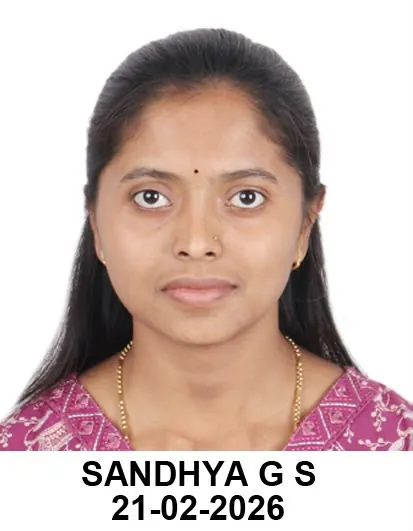
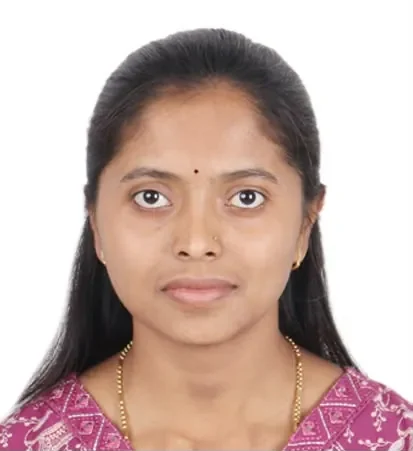
Home order: results, then a full 'Your teachers' section, then courses; merge videos/gallery/YouTube; crop stamp off a teacher photo

diff --git a/client/src/pages/Home.jsx b/client/src/pages/Home.jsx
@@ -1,6 +1,6 @@
-import React, { useState } from 'react';
+import React from 'react';
 import { Link } from 'react-router-dom';
-import { CheckCircle2, Clock, MapPin, Users, BookOpen, PenLine, Languages, CalendarClock, MessagesSquare, Download, Phone } from 'lucide-react';
+import { CheckCircle2, Clock, MapPin, Users, BookOpen, PenLine, Languages, CalendarClock, MessagesSquare, Download, Phone, ArrowRight } from 'lucide-react';
 import { PageLayout } from '../components/layout/PageLayout';
 import { SEO, faqLd } from '../components/common/SEO';
 import { sortedArticles } from '../data/articles';
@@ -8,10 +8,8 @@ import { landingByCourseId, LANDINGS } from '../data/courses';
 import { LeadForm } from '../components/common/LeadForm';
 import { openEnquiry } from '../components/common/Enquire';
 import { BrandIcon } from '../components/common/Brand';
-import { PhotoStack, HeroCtaM, PHOTOS, FacultyRow, GalleryStrip, MoreLink, ExamTiles, ResultsStrip, VideoPair, CallbackCard } from '../components/common/Visual';
+import { PhotoStack, HeroCtaM, PHOTOS, Teachers, GalleryStrip, MoreLink, ExamTiles, ResultsStrip, VideoPair, CallbackCard } from '../components/common/Visual';
 import { ACADEMY_INFO, INITIAL_COURSES, INITIAL_ACHIEVERS, getWhatsAppLink, telLink } from '../utils/constants';
-
-const YT_UPLOADS = 'UUOMaPN30n6XB7h34Kac75oA'; // uploads playlist of @Saaraswath.Mysore
 
 const FEATURES = [
   [Users, 'Personal mentorship', `Small batches and one-to-one guidance from ${ACADEMY_INFO.founder} and subject experts.`],
@@ -30,23 +28,6 @@ const FAQS = [
   ['Can I see a class before I join?', 'Ask on your call. We will tell you plainly what is possible for your batch and how classes run.'],
   ['I am still in my degree. Is it too early?', 'No. The 3-year Degree + IAS/KAS foundation runs on weekends and evenings, so it never clashes with college.'],
 ];
-
-const YouTube = () => {
-  const [on, setOn] = useState(false);
-  return (
-    <div className="yt">
-      {on ? (
-        <iframe src={`https://www.youtube-nocookie.com/embed/videoseries?list=${YT_UPLOADS}&autoplay=1`} title="Saaraswath Academy on YouTube"
-          allow="autoplay; encrypted-media; picture-in-picture" allowFullScreen />
-      ) : (
-        <button onClick={() => setOn(true)} aria-label="Play latest Saaraswath videos">
-          <span className="play"><svg width="26" height="26" viewBox="0 0 24 24" fill="#fff"><path d="M8 5v14l11-7z" /></svg></span>
-          Watch our latest classes &amp; strategy videos
-        </button>
-      )}
-    </div>
-  );
-};
 
 export const Home = () => (
   <PageLayout>
@@ -112,6 +93,19 @@ export const Home = () => (
       </div>
     </section>
 
+    {/* Your teachers, right after the students */}
+    <section className="sec sec-cream">
+      <div className="wrap">
+        <div className="sh">
+          <span className="tag">Your teachers</span>
+          <h2>The people who will teach you</h2>
+          <p>A mentor who knows you by name, and a teacher for every subject: history, polity, geography, economy, science, current affairs and aptitude.</p>
+        </div>
+        <Teachers />
+        <MoreLink to="/faculty">Meet the faculty</MoreLink>
+      </div>
+    </section>
+
     {/* Courses */}
     <section className="sec">
       <div className="wrap">
@@ -164,54 +158,21 @@ export const Home = () => (
     </section>
 
     {/* Call back */}
-    <section className="sec">
+    <section className="sec sec-tight">
       <div className="wrap"><CallbackCard form="home-callback" /></div>
     </section>
 
-    {/* Founder */}
-    <section className="sec sec-cream">
-      <div className="wrap founder founder-x">
-        <figure className="frame f-portrait rv"><img src={ACADEMY_INFO.founderPhoto} alt={ACADEMY_INFO.founder} loading="lazy" decoding="async" width="420" height="420" /></figure>
-        <div>
-          <span className="sh" style={{ margin: 0, textAlign: 'left' }}><span className="tag">Meet the founder</span></span>
-          <h2>{ACADEMY_INFO.founder}</h2>
-          <div className="role">{ACADEMY_INFO.founderTitle}, Saaraswath IAS/KAS Academy</div>
-          <p>{ACADEMY_INFO.founderExperience}</p>
-          <p>{ACADEMY_INFO.founderBio}</p>
-          <div className="hero-actions">
-            <button className="b b-gold" onClick={() => openEnquiry({ form: 'founder' })}>Get a call back</button>
-            <Link className="b b-line" to="/about">About the academy</Link>
-          </div>
-        </div>
-      </div>
-    </section>
-
-    {/* Team + place */}
+    {/* Inside the academy: videos, photos, YouTube + Telegram in one place */}
     <section className="sec sec-deco">
       <div className="wrap">
-        <div className="sh"><span className="tag">The teaching team</span><h2>Teachers you will learn from</h2><p>Subject teachers for history, polity, geography, economy, science, current affairs and aptitude, with the founder as your mentor.</p></div>
-        <FacultyRow />
-        <MoreLink to="/faculty">Meet the faculty</MoreLink>
-        <div className="vids-split" style={{ marginTop: 56 }}>
+        <div className="vids-split">
           <div className="sh"><span className="tag">Inside the academy</span><h2>A quiet place to study in Mysuru</h2><p>Take a short walk through the classrooms and study hall, and hear from one of our teachers.</p></div>
           <VideoPair />
         </div>
         <div style={{ marginTop: 36 }}><GalleryStrip /></div>
-        <MoreLink to="/gallery">Open the gallery</MoreLink>
-      </div>
-    </section>
-
-    {/* YouTube */}
-    <section className="sec">
-      <div className="wrap">
-        <div className="sh">
-          <span className="tag">Free learning</span>
-          <h2>Learn with us on YouTube</h2>
-          <p>Strategy sessions, current affairs and class recordings from Saaraswath.</p>
-        </div>
-        <div style={{ maxWidth: 880, margin: '0 auto' }}><YouTube /></div>
-        <div className="hero-actions" style={{ justifyContent: 'center' }}>
-          <a className="b b-line" href={ACADEMY_INFO.socials.youtube} target="_blank" rel="noopener noreferrer"><BrandIcon name="youtube" /> Subscribe</a>
+        <div className="home-follow">
+          <Link className="b b-line" to="/gallery">Open the gallery <ArrowRight size={16} /></Link>
+          <a className="b b-line" href={ACADEMY_INFO.socials.youtube} target="_blank" rel="noopener noreferrer"><BrandIcon name="youtube" /> Free classes on YouTube</a>
           <a className="b b-line" href={ACADEMY_INFO.socials.telegram} target="_blank" rel="noopener noreferrer"><BrandIcon name="telegram" /> Join Telegram</a>
         </div>
       </div>
@@ -226,7 +187,7 @@ export const Home = () => (
             <Link key={a.slug} to={`/articles/${a.slug}`} className="card art rv"><span className="cat">{a.category} · {a.exam}</span><h3>{a.title}</h3><p>{a.description}</p><span className="more">Read more</span></Link>
           ))}
         </div>
-        <p style={{ textAlign: 'center', marginTop: 16 }}><Link className="b b-line" to="/articles">All articles</Link></p>
+        <MoreLink to="/articles">All articles</MoreLink>
       </div>
     </section>
 
@@ -241,7 +202,7 @@ export const Home = () => (
     </section>
 
     {/* Final CTA */}
-    <section className="sec">
+    <section className="sec sec-tight">
       <div className="wrap">
         <div className="band">
           <div>

diff --git a/client/src/styles/polish.css b/client/src/styles/polish.css
@@ -19,6 +19,30 @@
 .mini-h { text-align: center; color: var(--navy); font-size: 22px; margin-bottom: 18px; }
 .more-link { text-align: center; margin-top: 26px; }
 
+/* Home "Your teachers": large mentor card + portrait cards (2 per row on phones, 5 on desktop) */
+.mentor { display: grid; gap: 20px; align-items: center; background: #fff; border: 1px solid #efe4c6; border-radius: 26px; padding: 16px; box-shadow: 0 18px 44px rgba(16, 38, 79, .08); }
+.mentor-ph { margin: 0; }
+.mentor-ph img { display: block; width: 100%; max-width: 340px; margin: 0 auto; aspect-ratio: 1; object-fit: cover; object-position: top; border-radius: 18px; background: #eef2f8; }
+.mentor-tx { padding: 0 6px 6px; }
+.mentor-k { font-size: 12px; font-weight: 800; letter-spacing: .14em; text-transform: uppercase; color: var(--gold); }
+.mentor h3 { font-family: var(--font-display); font-weight: 600; font-size: clamp(26px, 4.4vw, 36px); line-height: 1.15; color: var(--navy); margin: 6px 0 4px; }
+.mentor-r { color: var(--accent-ink); font-weight: 700; margin-bottom: 14px; }
+.mentor p { color: var(--muted); line-height: 1.65; margin-bottom: 10px; }
+.mentor .hero-actions { margin-top: 18px; }
+@media (min-width: 900px) { .mentor { grid-template-columns: 340px 1fr; gap: 44px; padding: 22px; } .mentor-tx { padding: 0 28px 0 0; } }
+.tgrid-h { font-family: var(--font-display); font-weight: 600; font-size: 22px; color: var(--navy); text-align: center; margin: 48px 0 20px; }
+.tgrid { display: grid; grid-template-columns: repeat(2, 1fr); gap: 14px; }
+@media (min-width: 860px) { .tgrid { grid-template-columns: repeat(5, 1fr); gap: 20px; } }
+.tcard { margin: 0; background: #fff; border: 1px solid #ebeef5; border-radius: 18px; overflow: hidden; box-shadow: 0 8px 22px rgba(16, 38, 79, .06); }
+.tcard img { display: block; width: 100%; height: auto; aspect-ratio: 4 / 5; object-fit: cover; object-position: top; background: #eef2f8; }
+.tcard figcaption { padding: 12px 12px 14px; }
+.tcard b { display: block; font-size: 15px; line-height: 1.25; color: var(--navy); }
+.tc-sub { display: block; font-size: 13px; line-height: 1.35; color: var(--muted); margin-top: 4px; }
+.tc-role { display: block; font-size: 11px; font-weight: 800; letter-spacing: .08em; text-transform: uppercase; color: var(--accent-ink); margin-top: 8px; }
+
+/* Home "Inside the academy": small follow buttons under the gallery */
+.home-follow { display: flex; flex-wrap: wrap; gap: 10px; justify-content: center; margin-top: 26px; }
+
 /* Motion: one gentle rise on load; scroll reveal only where the browser supports it natively (no JS) */
 @keyframes rise { from { opacity: 0; transform: translateY(18px); } to { opacity: 1; transform: none; } }
 .rise { animation: rise .7s cubic-bezier(.2, .7, .2, 1) both; }

diff --git a/client/src/components/common/Visual.jsx b/client/src/components/common/Visual.jsx
@@ -183,6 +183,35 @@ export const FacultyRow = ({ items = INITIAL_FACULTY }) => (
   </div>
 );
 
+// Home "Your teachers": founder as a large mentor card, then every subject teacher as a portrait card.
+export const Teachers = ({ items = INITIAL_FACULTY }) => (
+  <>
+    <div className="mentor">
+      <figure className="mentor-ph"><img src={ACADEMY_INFO.founderPhoto} alt={ACADEMY_INFO.founder} width="420" height="420" loading="lazy" decoding="async" /></figure>
+      <div className="mentor-tx">
+        <span className="mentor-k">Your mentor</span>
+        <h3>{ACADEMY_INFO.founder}</h3>
+        <div className="mentor-r">{ACADEMY_INFO.founderTitle}, Saaraswath IAS/KAS Academy</div>
+        <p>{ACADEMY_INFO.founderExperience}</p>
+        <p>{ACADEMY_INFO.founderBio}</p>
+        <div className="hero-actions">
+          <button className="b b-gold" onClick={() => openEnquiry({ form: 'founder' })}>Get a call back</button>
+          <Link className="b b-line" to="/about">About the academy</Link>
+        </div>
+      </div>
+    </div>
+    <h3 className="tgrid-h">Subject teachers</h3>
+    <div className="tgrid">
+      {items.map(f => (
+        <figure key={f.id} className="tcard">
+          <img src={f.image} alt={f.name} width="280" height="350" loading="lazy" decoding="async" />
+          <figcaption><b>{f.name}</b><span className="tc-sub">{f.specialization}</span><span className="tc-role">{f.role}</span></figcaption>
+        </figure>
+      ))}
+    </div>
+  </>
+);
+
 // One large testimonial quote with a photo.
 export const Testimonial = ({ a }) => (
   <figure className="testi">
